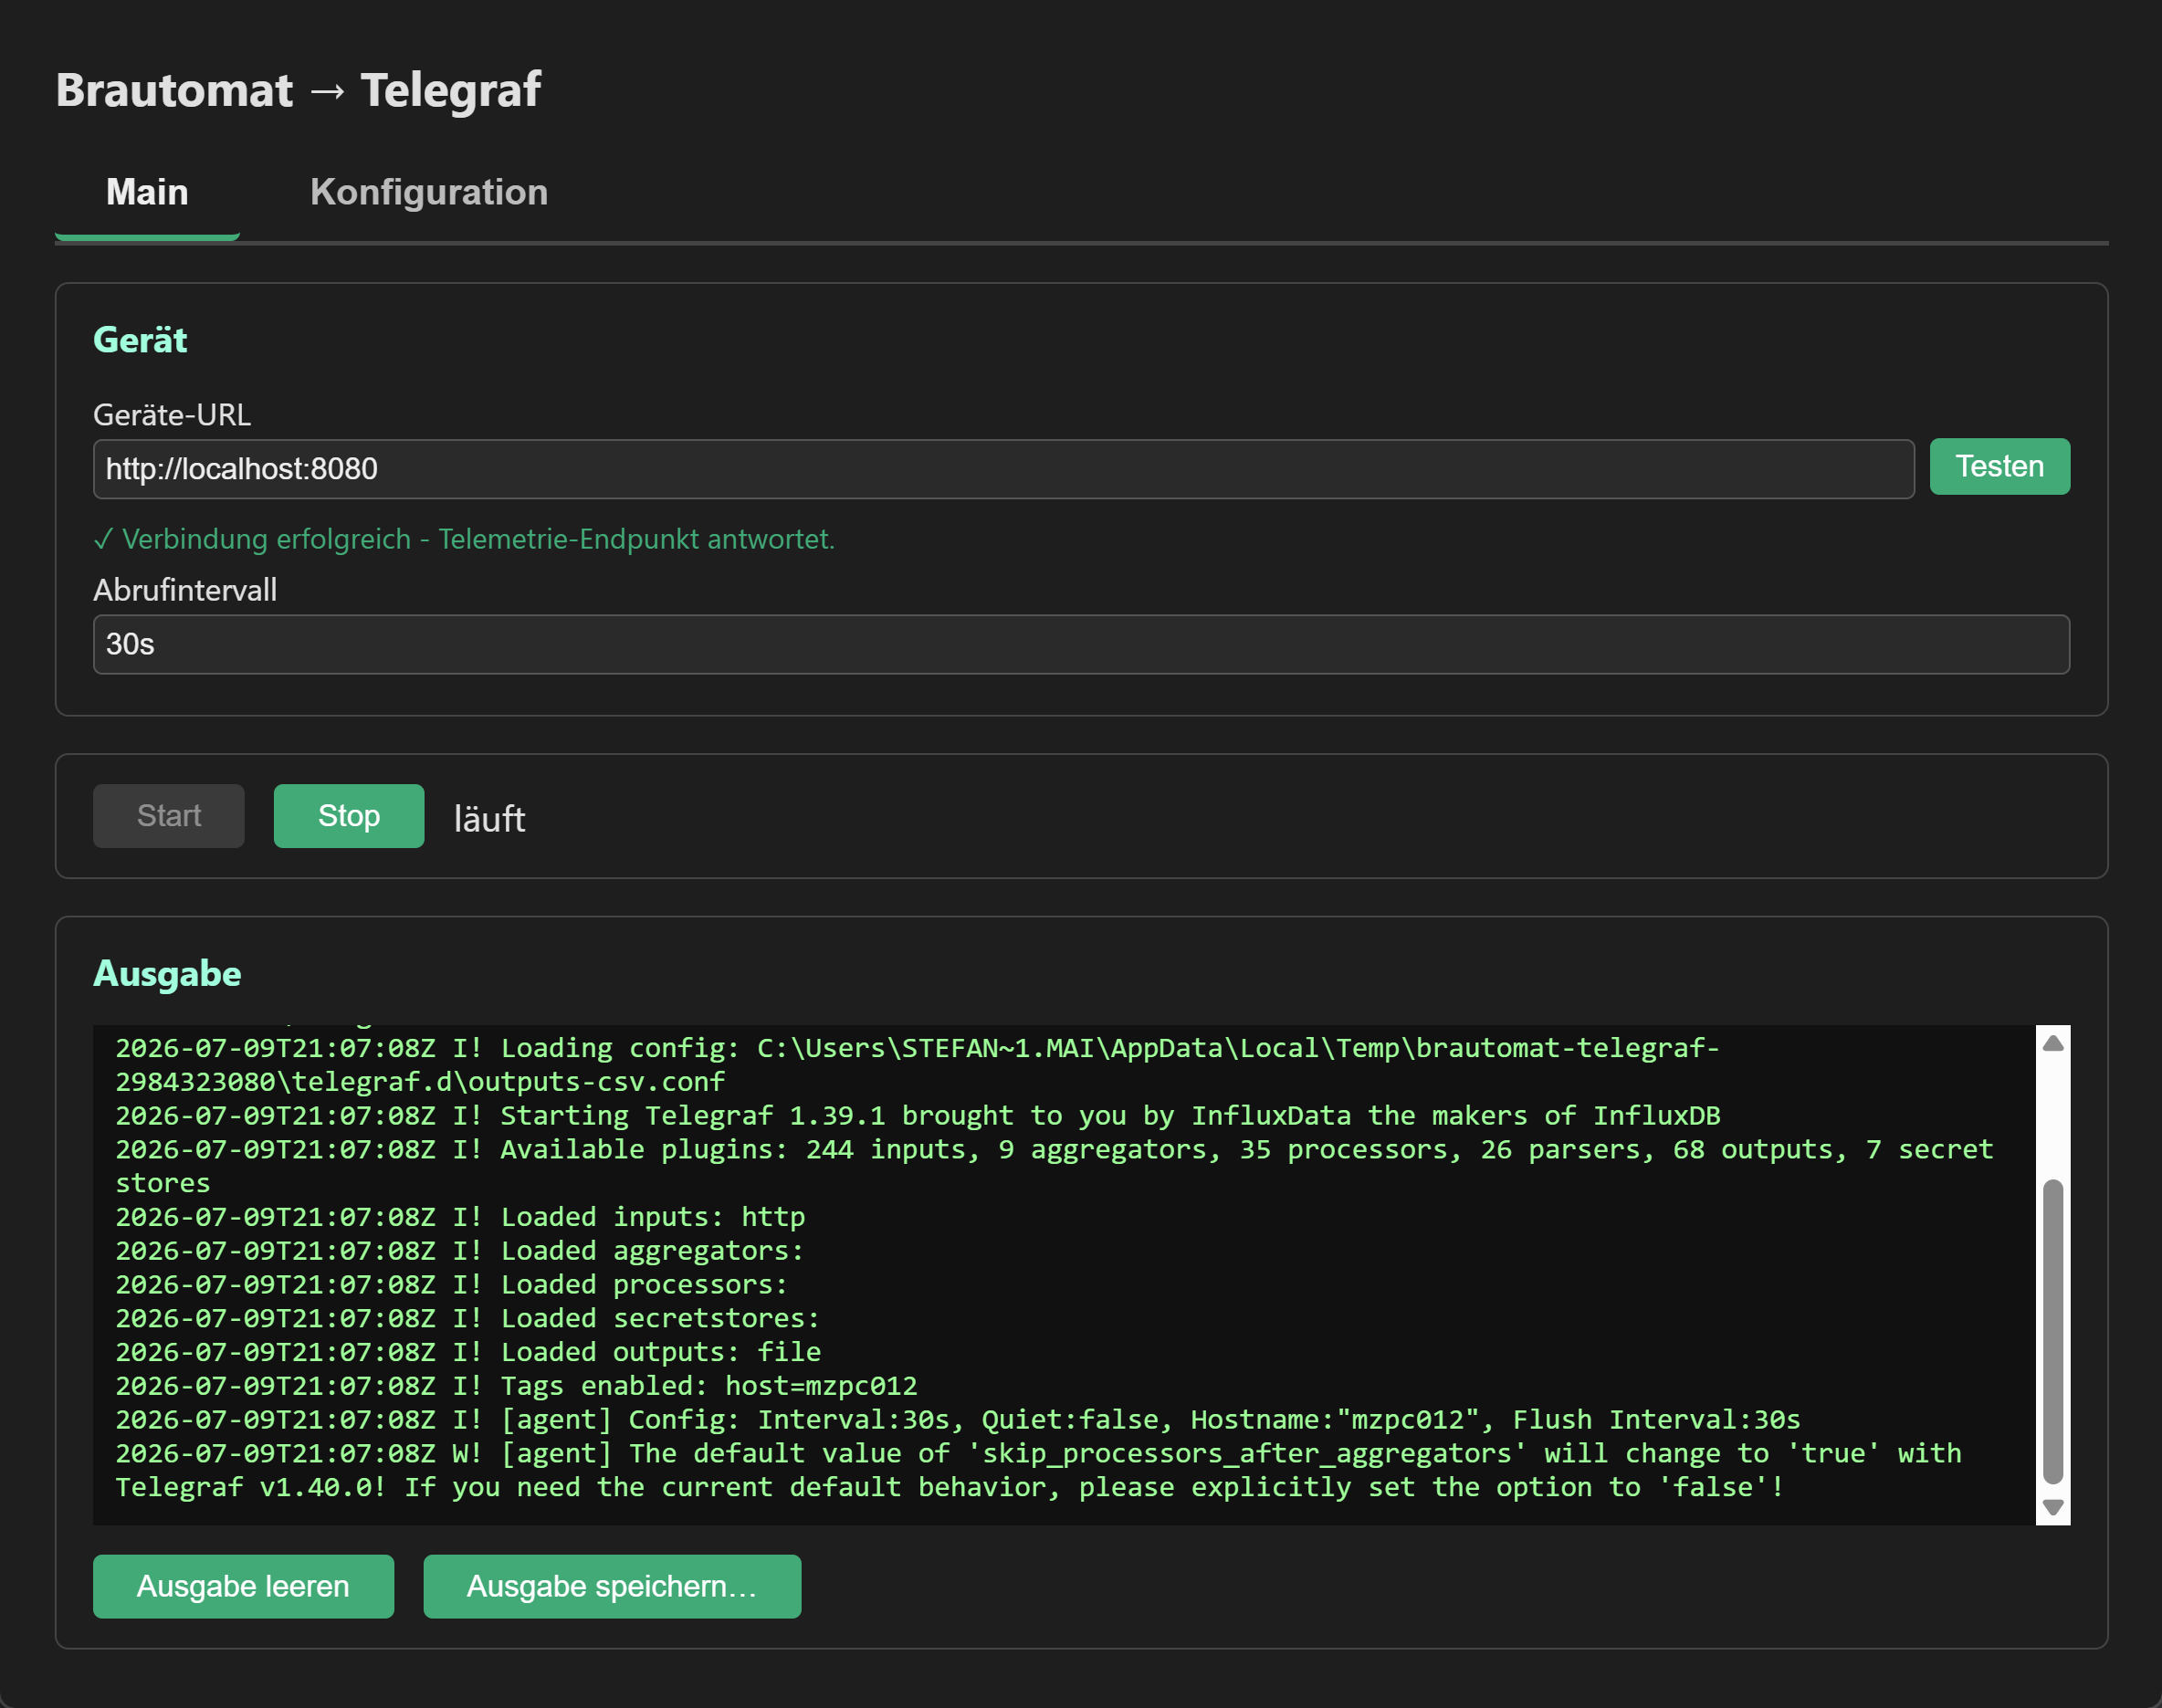
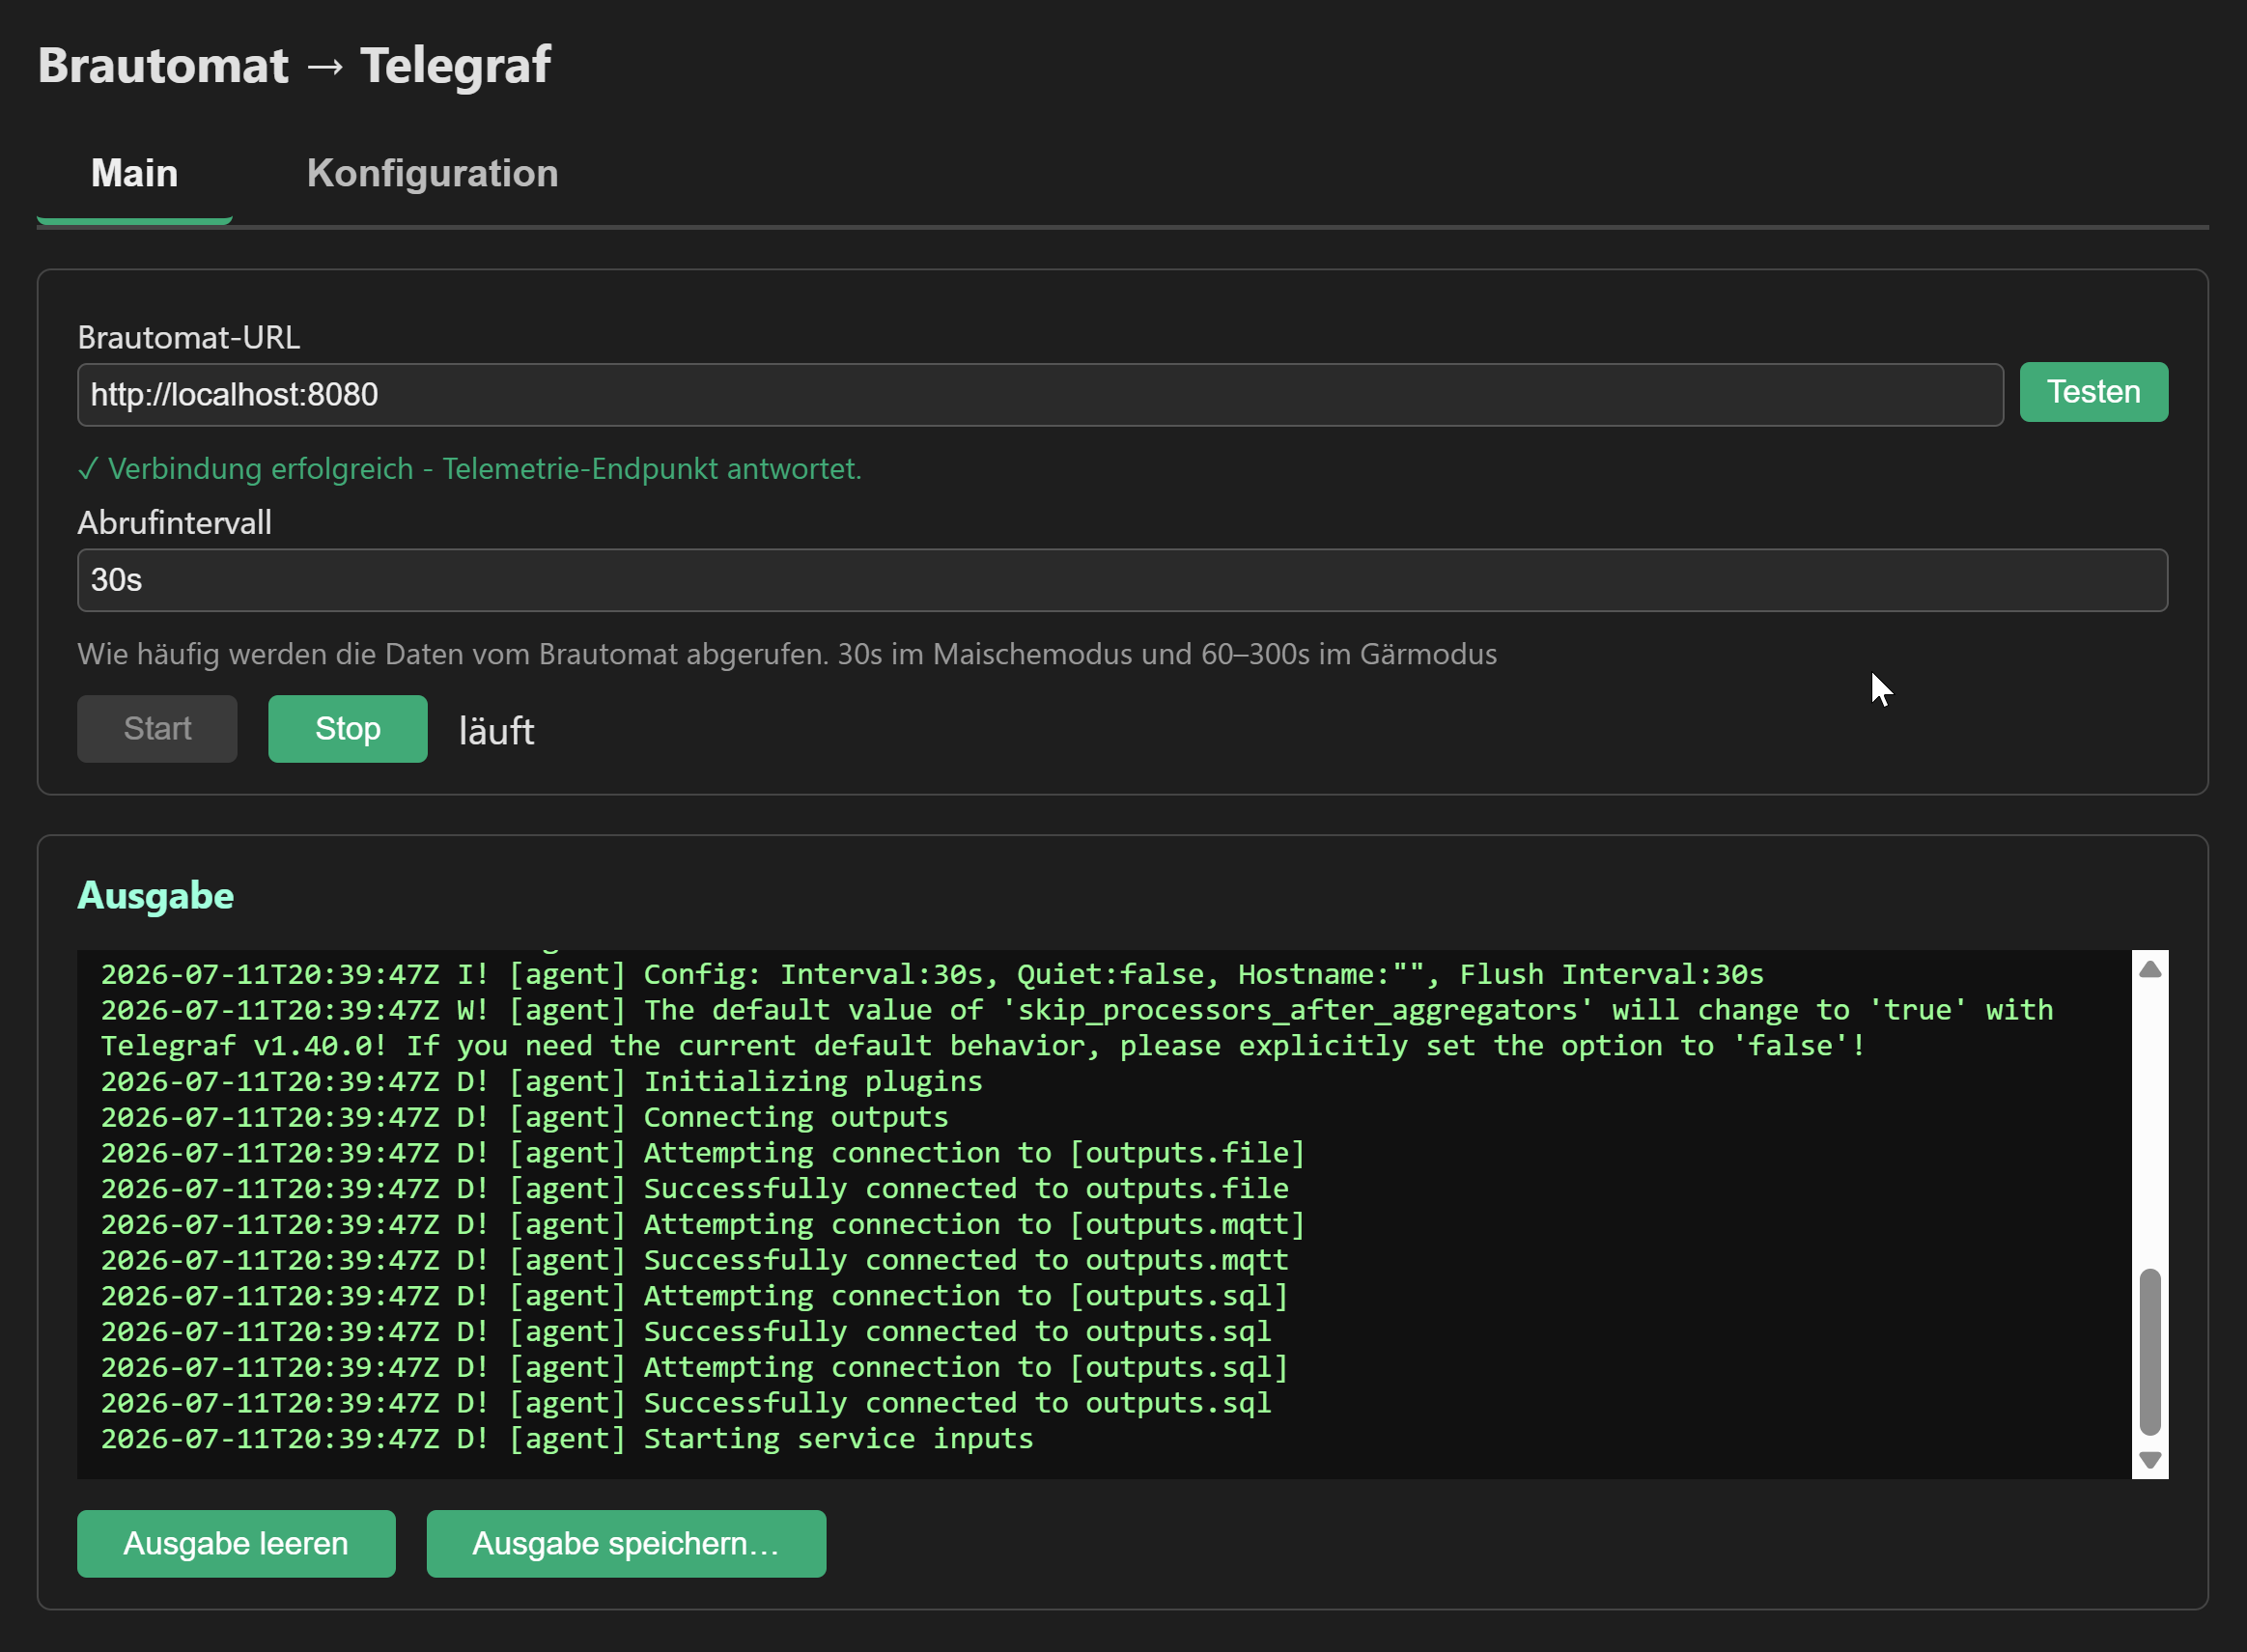
Update README.md, new images for UI

diff --git a/README.md b/README.md
@@ -78,16 +78,20 @@ Die GUI ist in zwei Tabs aufgeteilt.
 
 **Konfiguration** - seltener benötigte Einstellungen, in dieser Reihenfolge:
 
-1. **Ziele** - ein Unter-Tab pro Ziel (CSV-Datei, InfluxDB v2,
+1. **Telegraf** - Pfad zu dem telegraf Executable mit der Möglichkeit, die
+   für den Computer passende Version herunterzuladen sowie die Einstellung,
+   wie viel Ausgaben telegraf produzieren soll.
+2. **Ziele** - ein Unter-Tab pro Ziel (CSV-Datei, InfluxDB v2,
    PostgreSQL, MariaDB/MySQL, MQTT), jeweils mit eigener
    "Ziel aktivieren"-Checkbox. Mehrere Ziele können gleichzeitig aktiv
    sein, unabhängig davon, welcher Unter-Tab gerade sichtbar ist.
-2. **Templates-Konfiguration** - dazu mehr im Abschnitt
+3. **Templates-Konfiguration** - dazu mehr im Abschnitt
    [Templates](#templates-eingebettet-vs-benutzerdefiniert).
-3. **Konfiguration speichern** - dazu mehr im Abschnitt
+4. **Konfiguration speichern** - dazu mehr im Abschnitt
    [Konfiguration speichern/laden](#konfiguration-speichernladen).
 
-![alt text](doc/images/config-screen.png)   
+![alt text](doc/images/config-screen-1.png)
+![alt text](doc/images/config-screen-2.png)
 
 ### Konfiguration speichern/laden
 